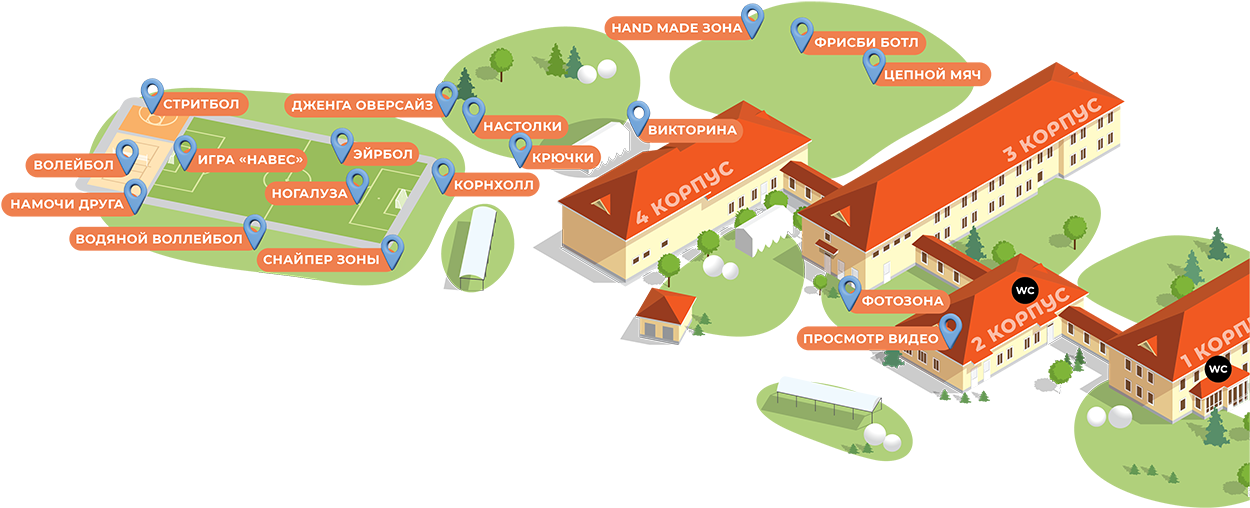
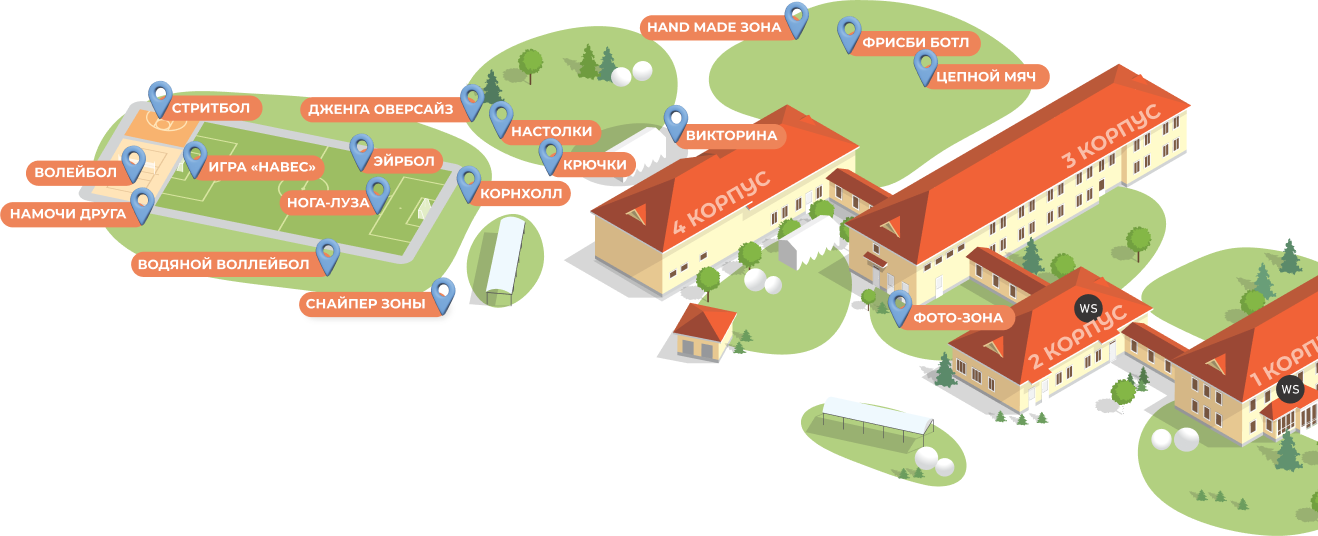
game title fixes

diff --git a/games.html b/games.html
@@ -77,7 +77,7 @@
             class="games__button button"
             onclick="openModal('ball-2')"
           >
-            Ногалуза
+            Нога-луза
           </button>
           <button
             id="boardgames-button"
@@ -423,7 +423,7 @@
     </div>
     <div id="ball-2" class="dialog">
       <div class="dialog-header">
-        <div class="dialog-header__text">Ногалуза</div>
+        <div class="dialog-header__text">Нога-луза</div>
         <div class="dialog-header__close-button">
           <img src="docs/assets/icons/close_icon.svg" />
         </div>

diff --git a/docs/assets/css/styles.css b/docs/assets/css/styles.css
@@ -124,7 +124,7 @@ h2 {
     background-image: url('../img/header-background.png');
     background-repeat: no-repeat;
     background-size: cover;
-    min-height: 450px;
+    min-height: 480px;
     display: flex;
     flex-direction: column;
     justify-content: space-between;
